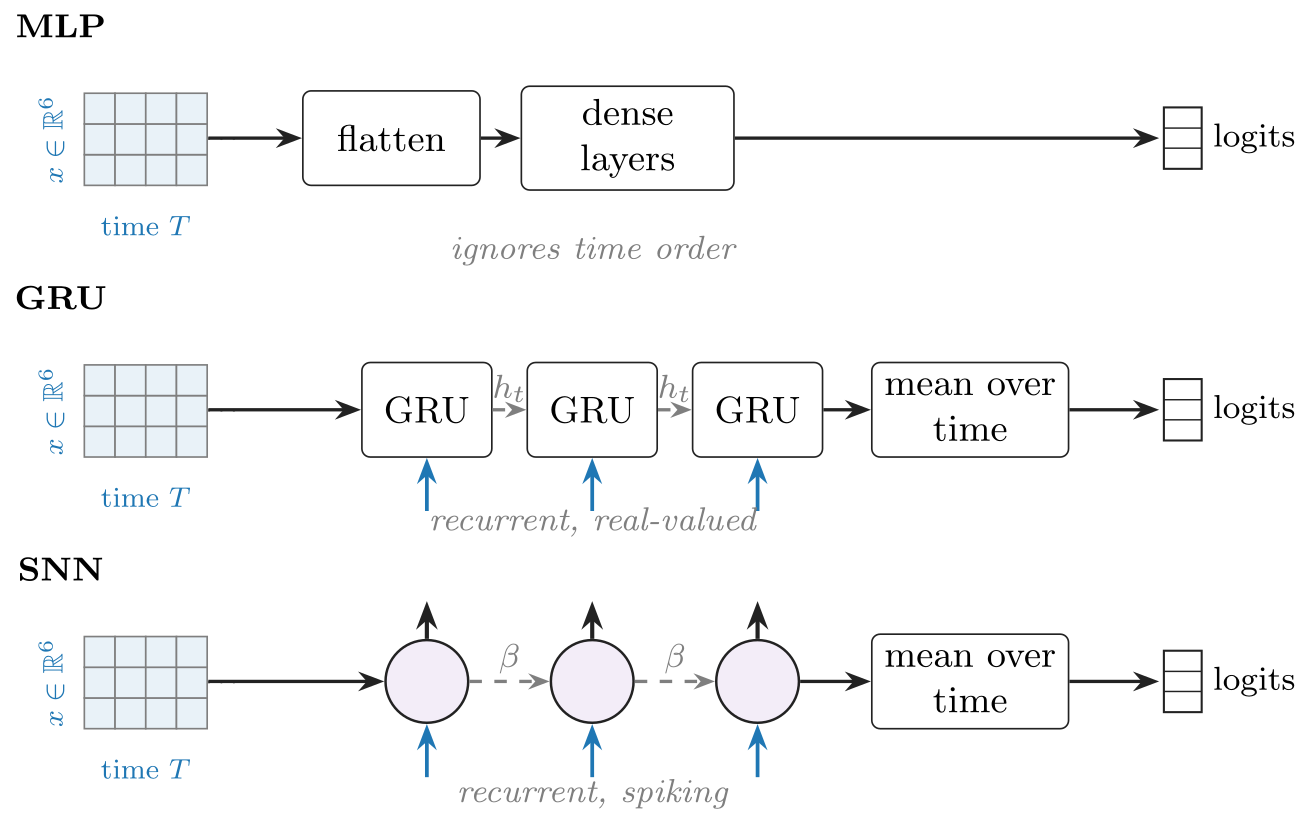
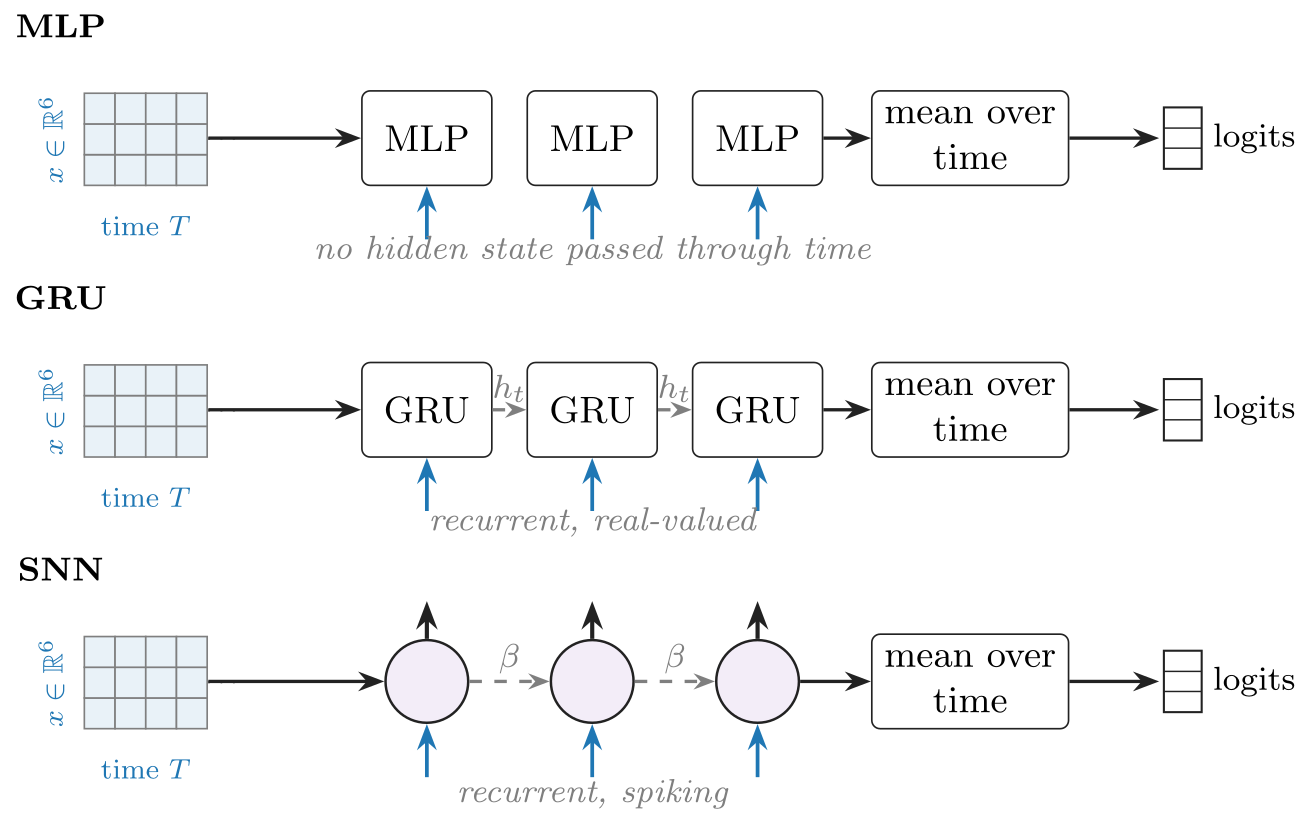
Unify classification contract across SNN/MLP/GRU (per-step logits, mean over time)
All three models now share one input->prediction contract: produce logits per
timestep and average over time before cross-entropy. Only the per-step computation
and whether state crosses time differ.

- MLP: was flatten-time single pass -> now memoryless time-distributed MLP (shared
  net per timestep, mean over time); the honest "no temporal state" baseline.
- GRU: was last-timestep readout -> now per-step readout averaged over time.
- SNN: unchanged (already conformed).
- Ch3 op-counts updated: MLP/GRU are dense MACs at every timestep (T passes);
  SNN sparse ACs. Result: SNN cheaper than BOTH baselines (86k pJ vs MLP 654k,
  GRU 8.67M), so the "fair comparison" narrative is rewritten accordingly.
- Updated Ch2/Ch3 markdown, models.py + inline copies, regenerated figures,
  rebuilt notebook.

Changed region(s): [[0.2137, 0.0903, 0.6412, 0.3309], [0.5496, 0.1203, 0.8244, 0.2407], [0.2443, 0.2106, 0.2748, 0.2407]]

diff --git a/tikz_setup/ch2_three_architectures.tex b/tikz_setup/ch2_three_architectures.tex
@@ -1,6 +1,7 @@
 % F - three baselines side by side (Chapter 2): MLP vs GRU vs SNN, all consuming
 % the SAME length-T multivariate input so they are directly comparable.
-% MLP: flatten -> dense -> logits (ignores time order).
+% MLP: per-timestep MLP applied independently each step (NO hidden state) ->
+%      mean over time -> logits.
 % GRU: unrolled recurrent cell with real-valued hidden state h_t -> logits.
 % SNN: unrolled LIF (lifdot) emitting spikes with beta state -> mean over time -> logits.
 \documentclass[border=2pt]{standalone}
@@ -32,7 +33,6 @@
 
   % horizontal anchors (shared logits column; mean-over-time for both recurrent rows)
   \def\colInput{0}      % left edge of input grid
-  \def\colA{2.0}        % MLP flatten block
   \def\xcellA{2.9}      % first unrolled recurrent cell
   \def\xcellB{4.3}      % second unrolled cell
   \def\xcellC{5.7}      % third unrolled cell
@@ -54,18 +54,25 @@
     \end{scope}}
 
   % =================================================================
-  % ROW 1 : MLP   (flatten -> dense -> logits)
+  % ROW 1 : MLP   (per-timestep MLP, NO hidden state) -> mean over time -> logits
+  % Same layout as GRU/SNN, but with NO arrows between blocks (not recurrent).
   % =================================================================
   \node[iolabel, font=\footnotesize\bfseries] at (\colInput-0.2,\rowMLP+0.95) {MLP};
   \drawinput{\colInput}{\rowMLP-0.4}
-  \node[block, minimum width=15mm] (mlpFlat) at (\colA+0.6,\rowMLP) {flatten};
-  \node[block, minimum width=18mm, align=center]
-        (mlpDense) at (\xcellB+0.3,\rowMLP) {dense\\ layers};
-  \draw[synapse] (\colInput+1.05,\rowMLP) -- (mlpFlat.west);
-  \draw[synapse] (mlpFlat.east) -- (mlpDense.west);
-  \draw[synapse] (mlpDense.east) -- (\colLog-0.2,\rowMLP);
+  \node[block, minimum width=11mm] (m1) at (\xcellA,\rowMLP) {MLP};
+  \node[block, minimum width=11mm] (m2) at (\xcellB,\rowMLP) {MLP};
+  \node[block, minimum width=11mm] (m3) at (\xcellC,\rowMLP) {MLP};
+  \draw[synapse] (\colInput+1.05,\rowMLP) -- (m1.west);
+  % each MLP reads its own input column; deliberately NO arrows between blocks
+  \foreach \m in {m1, m2, m3}{
+    \draw[current] ($(\m.south)+(0,-0.45)$) -- (\m.south);
+  }
+  \node[block, minimum width=14mm, align=center]
+        (mmean) at (\xmean,\rowMLP) {mean over\\ time};
+  \draw[synapse] (m3.east) -- (mmean.west);
+  \draw[synapse] (mmean.east) -- (\colLog-0.2,\rowMLP);
   \drawlogits{\colLog}{\rowMLP}
-  \node[fignote] at (\xcellB,\rowMLP-0.95) {ignores time order};
+  \node[fignote] at (\xcellB,\rowMLP-0.95) {no hidden state passed through time};
 
   % =================================================================
   % ROW 2 : GRU  (unrolled cell, hidden state h_t) -> mean over time -> logits

diff --git a/snn_workshop/models.py b/snn_workshop/models.py
@@ -130,11 +130,16 @@ class DeepSNN(nn.Module):
 # Non-spiking baselines (matched depth / width)
 # --------------------------------------------------------------------------------
 class MLP(nn.Module):
-    """Flatten the time axis into one feature vector, then a 3-layer MLP."""
+    """Memoryless per-timestep MLP (the honest "no temporal state" baseline).
 
-    def __init__(self, n_in, n_timesteps, hidden=64, n_layers=3, n_classes=4):
+    The *same* small network is applied independently to every timestep's observation
+    vector, giving per-step logits that are averaged over time -- the same readout
+    contract as the SNN/GRU. Unlike them it carries **no state across time**.
+    """
+
+    def __init__(self, n_in, hidden=64, n_layers=3, n_classes=4):
         super().__init__()
-        dims = [n_in * n_timesteps] + [hidden] * (n_layers - 1)
+        dims = [n_in] + [hidden] * (n_layers - 1)
         layers = []
         for i in range(len(dims) - 1):
             layers += [nn.Linear(dims[i], dims[i + 1]), nn.ReLU()]
@@ -142,11 +147,18 @@ class MLP(nn.Module):
         self.net = nn.Sequential(*layers)
 
     def forward(self, x):
-        return self.net(x.flatten(start_dim=1))
+        # x: (B, T, C) -> shared net at each timestep -> (B, T, K) -> mean over time
+        B, T, C = x.shape
+        logits_t = self.net(x.reshape(B * T, C)).reshape(B, T, -1)
+        return logits_t.mean(dim=1)
 
 
 class GRUClassifier(nn.Module):
-    """3-layer GRU; classify from the final timestep's top-layer hidden state."""
+    """3-layer GRU with a per-timestep readout averaged over time.
+
+    Same input/output contract as the SNN (per-step logits, mean over time); the only
+    difference from the SNN is the continuous-valued recurrent cell.
+    """
 
     def __init__(self, n_in, hidden=64, n_layers=3, n_classes=4):
         super().__init__()
@@ -154,5 +166,5 @@ class GRUClassifier(nn.Module):
         self.readout = nn.Linear(hidden, n_classes)
 
     def forward(self, x):
-        out, _ = self.gru(x)        # (B, T, hidden)
-        return self.readout(out[:, -1, :])
+        out, _ = self.gru(x)                    # (B, T, hidden)
+        return self.readout(out).mean(dim=1)    # per-step logits, averaged over time

diff --git a/scripts/02_training_snns.py b/scripts/02_training_snns.py
@@ -200,10 +200,16 @@ report("SNN (autograd)", train_model(snn))
 
 
 # %% CELL 2.12 | code  (non-spiking baselines -- not a task)
+# Both baselines follow the SAME contract as the SNN: produce a prediction per
+# timestep, then average the logits over time. They differ only in how each timestep
+# is computed and whether state crosses time.
 class MLP(nn.Module):
-    def __init__(self, n_in, n_timesteps, hidden=64, n_layers=3, n_classes=4):
+    """Memoryless per-timestep MLP: the same network is applied to each timestep's
+    observation vector; per-step logits are averaged over time. No state across time."""
+
+    def __init__(self, n_in, hidden=64, n_layers=3, n_classes=4):
         super().__init__()
-        dims = [n_in * n_timesteps] + [hidden] * (n_layers - 1)
+        dims = [n_in] + [hidden] * (n_layers - 1)
         layers = []
         for i in range(len(dims) - 1):
             layers += [nn.Linear(dims[i], dims[i + 1]), nn.ReLU()]
@@ -211,21 +217,26 @@ class MLP(nn.Module):
         self.net = nn.Sequential(*layers)
 
     def forward(self, x):
-        return self.net(x.flatten(start_dim=1))
+        B, T, C = x.shape                                   # (B, T, C)
+        logits_t = self.net(x.reshape(B * T, C)).reshape(B, T, -1)
+        return logits_t.mean(dim=1)                         # mean over time -> (B, K)
 
 
 class GRUClassifier(nn.Module):
+    """3-layer GRU with a per-timestep readout averaged over time (same contract as
+    the SNN); the recurrent cell is the only difference from the SNN."""
+
     def __init__(self, n_in, hidden=64, n_layers=3, n_classes=4):
         super().__init__()
         self.gru = nn.GRU(n_in, hidden, num_layers=n_layers, batch_first=True)
         self.readout = nn.Linear(hidden, n_classes)
 
     def forward(self, x):
-        out, _ = self.gru(x)
-        return self.readout(out[:, -1, :])
+        out, _ = self.gru(x)                                # (B, T, hidden)
+        return self.readout(out).mean(dim=1)               # per-step logits, mean over time
 
 
-mlp = MLP(ds.n_channels, ds.n_timesteps, 64, 3, ds.n_classes)
+mlp = MLP(ds.n_channels, 64, 3, ds.n_classes)
 report("MLP", train_model(mlp))
 
 gru = GRUClassifier(ds.n_channels, 64, 3, ds.n_classes)

diff --git a/scripts/03_evaluating_snns.py b/scripts/03_evaluating_snns.py
@@ -84,17 +84,21 @@ T, C, H, K = ds.n_timesteps, ds.n_channels, 64, ds.n_classes
 L = len(per_layer)
 mean_rate = [float(r.mean()) for r in rates_per_layer]   # per hidden layer
 
-# SNN: first layer sees real-valued input (MACs); hidden layers see spikes (ACs).
+# All three models run per timestep and pool over time; we count ops over the full
+# T-step sequence so the comparison is like-for-like.
+# SNN: first layer sees real-valued input (MACs); hidden layers + readout are
+# spike-driven (ACs), so their cost scales with the measured firing rates.
 snn_mac = C * H * T                                       # dense input projection
 snn_ac = 0.0
 for l in range(1, L):                                     # layers 2..L: spike-driven
     snn_ac += (H * T * mean_rate[l - 1]) * H
 snn_ac += (H * T * mean_rate[L - 1]) * K                  # spike-driven readout
 
-# MLP (flatten time): one dense forward, all MACs.
-mlp_mac = (C * T) * H + H * H + H * K
-# GRU: 3 gates x (input->hidden + hidden->hidden) per layer per timestep, all MACs.
-gru_mac = T * (3 * (C * H + H * H) + (L - 1) * 3 * (H * H + H * H)) + H * K
+# MLP (memoryless): the same dense net runs at EACH of the T timesteps, all MACs.
+mlp_mac = T * (C * H + H * H + H * K)
+# GRU: 3 gates x (input->hidden + hidden->hidden) per layer per timestep, plus a
+# per-step readout, all MACs.
+gru_mac = T * (3 * (C * H + H * H) + (L - 1) * 3 * (H * H + H * H) + H * K)
 
 # Energy proxy (45nm, Horowitz 2014): 32-bit FP MAC ~ 4.6 pJ, AC ~ 0.9 pJ.
 E_MAC, E_AC = 4.6, 0.9

diff --git a/content/02_training_snns.md b/content/02_training_snns.md
@@ -152,18 +152,25 @@ accuracy and training time.)*
 ## Baselines — MLP and GRU
 
 To judge the SNN we train two conventional networks of matched depth/width (3 layers,
-64 units):
+64 units). Crucially, **all three models obey the same contract**: each produces a
+prediction *per timestep*, and we average those logits over time before the loss — the
+exact readout you built for the SNN. They differ only in *how each timestep is computed*
+and *whether information crosses time*:
 
-- **MLP** — flattens the time axis into one long feature vector and classifies it in a
-  single forward pass. Simple and fast, but it is *not* a sequence model: it sees the
-  whole trial at once and ignores temporal order.
+- **MLP** — the *memoryless* baseline. The same small network is applied to each
+  timestep's 6-channel vector independently, and the per-step predictions are averaged.
+  It carries **no state across time**, so it can never integrate temporal order — its
+  honest deficiency.
 - **GRU** — a continuous-valued **recurrent** network, the natural non-spiking
-  counterpart of our SNN (it too processes the sequence step by step). This is the
-  apples-to-apples baseline we will return to in Chapter 3.
+  counterpart of our SNN: it carries a hidden state across time, reads out at every
+  step, and averages. This is the apples-to-apples baseline we return to in Chapter 3.
+
+Because the three share one input→prediction contract, every later comparison
+(accuracy, training curves, and the Chapter 3 efficiency analysis) is like-for-like.
 
 <div align="center"><img src="tikz_setup/img/ch2_three_architectures.png" width="660"/></div>
 
-<div align="center"><em>The three models on the same input: the MLP flattens time, while the GRU and SNN process it step by step and pool over time.</em></div>
+<div align="center"><em>The three models on the same input: each predicts at every timestep and pools the logits over time. The MLP is memoryless (no state across time), while the GRU and SNN carry state along the sequence.</em></div>
 
 <!-- CELL 2.12 | code -> scripts/02_training_snns.py -->
 *(No task — train the MLP and GRU baselines.)*
@@ -175,8 +182,9 @@ Each `train_model` call returned a **history** (per-epoch train/test loss and
 accuracy) and a training-only **wall-clock time**. We now read those out as a summary
 table and three plots. Headlines to expect:
 
-- The **SNN reaches accuracy competitive with the MLP**, a little below the GRU — a
-  good result for a spiking network on a small dataset.
+- The **SNN reaches accuracy in the same ballpark as the baselines** — a little below
+  the MLP and GRU on this small dataset, which is a good result for a spiking network
+  (and Chapter 3 shows what it buys you in efficiency).
 - The SNN's **training time** stands out: its Python-level unrolled time loop is slower
   than the single fused ops of the MLP/GRU. The optional bonus at the end of the
   notebook shows how to close that gap with `torch.compile`.

diff --git a/content/03_evaluating_snns.md b/content/03_evaluating_snns.md
@@ -73,18 +73,18 @@ classic 45 nm estimate, ~0.9 pJ vs ~4.6 pJ for 32-bit FP), and (2) sparsity mean
 ACs are ever performed. On event-driven *neuromorphic* hardware the "do nothing for a
 0" part is literal — unused synapses consume no energy.
 
-> **A fair comparison.** Our **MLP** flattens time into a single dense pass, so in raw
-> op-count it looks cheap — but it is *not* a streaming/temporal model and its first
-> weight matrix grows with sequence length. The **GRU** is the like-for-like baseline:
-> a continuous-valued recurrent network that, like the SNN, processes the sequence
-> step by step. That is the comparison to watch.
+> **A like-for-like comparison.** All three models share the same contract — predict
+> per timestep, average over time — so we count operations the same way for each: over
+> the full T-step sequence. The **MLP** (memoryless) and the **GRU** (recurrent) both
+> do **dense MACs at every timestep**; only the SNN replaces those with **sparse ACs**
+> gated by spikes. So this time the SNN is compared fairly against *both* baselines.
 
 <!-- CELL 3.8 | code -> scripts/03_evaluating_snns.py -->
-**TASK.** Using the measured firing rates, estimate the operation counts:
-the SNN's first layer sees real-valued input (MACs) while its hidden/readout layers
-are spike-driven (ACs); the MLP and GRU are all MACs. Convert to an energy proxy and
-compare. **Expect the SNN to use a tiny fraction of the GRU's energy** — the headline
-result — while the flatten-MLP, for the caveats above, is a different kind of model.
+**TASK.** Using the measured firing rates, estimate the operation counts over the whole
+sequence: the SNN's first layer sees real-valued input (MACs) while its hidden/readout
+layers are spike-driven (ACs); the MLP and GRU are dense MACs at every timestep. Convert
+to an energy proxy and compare. **Expect the SNN to use a fraction of the energy of
+*both* the MLP and the GRU** — the headline result, now that all three do the same job.
 
 <!-- CELL 3.9 | markdown -->
 ## Discussion — what this does and does not show
@@ -92,9 +92,9 @@ result — while the flatten-MLP, for the caveats above, is a different kind of 
 - **vs the RNN (GRU):** the SNN does the same job — streaming temporal classification —
   for a fraction of the energy, because it replaces dense per-step MACs with sparse
   ACs. This is the result that matters and it grows with sequence length.
-- **vs the MLP:** raw op-counts can favour a flatten-once MLP on a short, fixed-length
-  trial, but that model is non-causal (needs the whole sequence at once) and scales
-  poorly as $T$ grows. The SNN is causal and event-driven.
+- **vs the MLP:** the memoryless MLP still runs a dense network at *every* timestep, so
+  it too pays MACs the SNN avoids — the SNN is cheaper here as well, while additionally
+  being able to integrate information across time (which the MLP cannot).
 - **It is a proxy, not a hardware measurement.** Real energy depends on memory traffic,
   dataflow, precision and the actual chip; the MAC/AC counts capture the *arithmetic*
   story, which is where neuromorphic hardware wins.